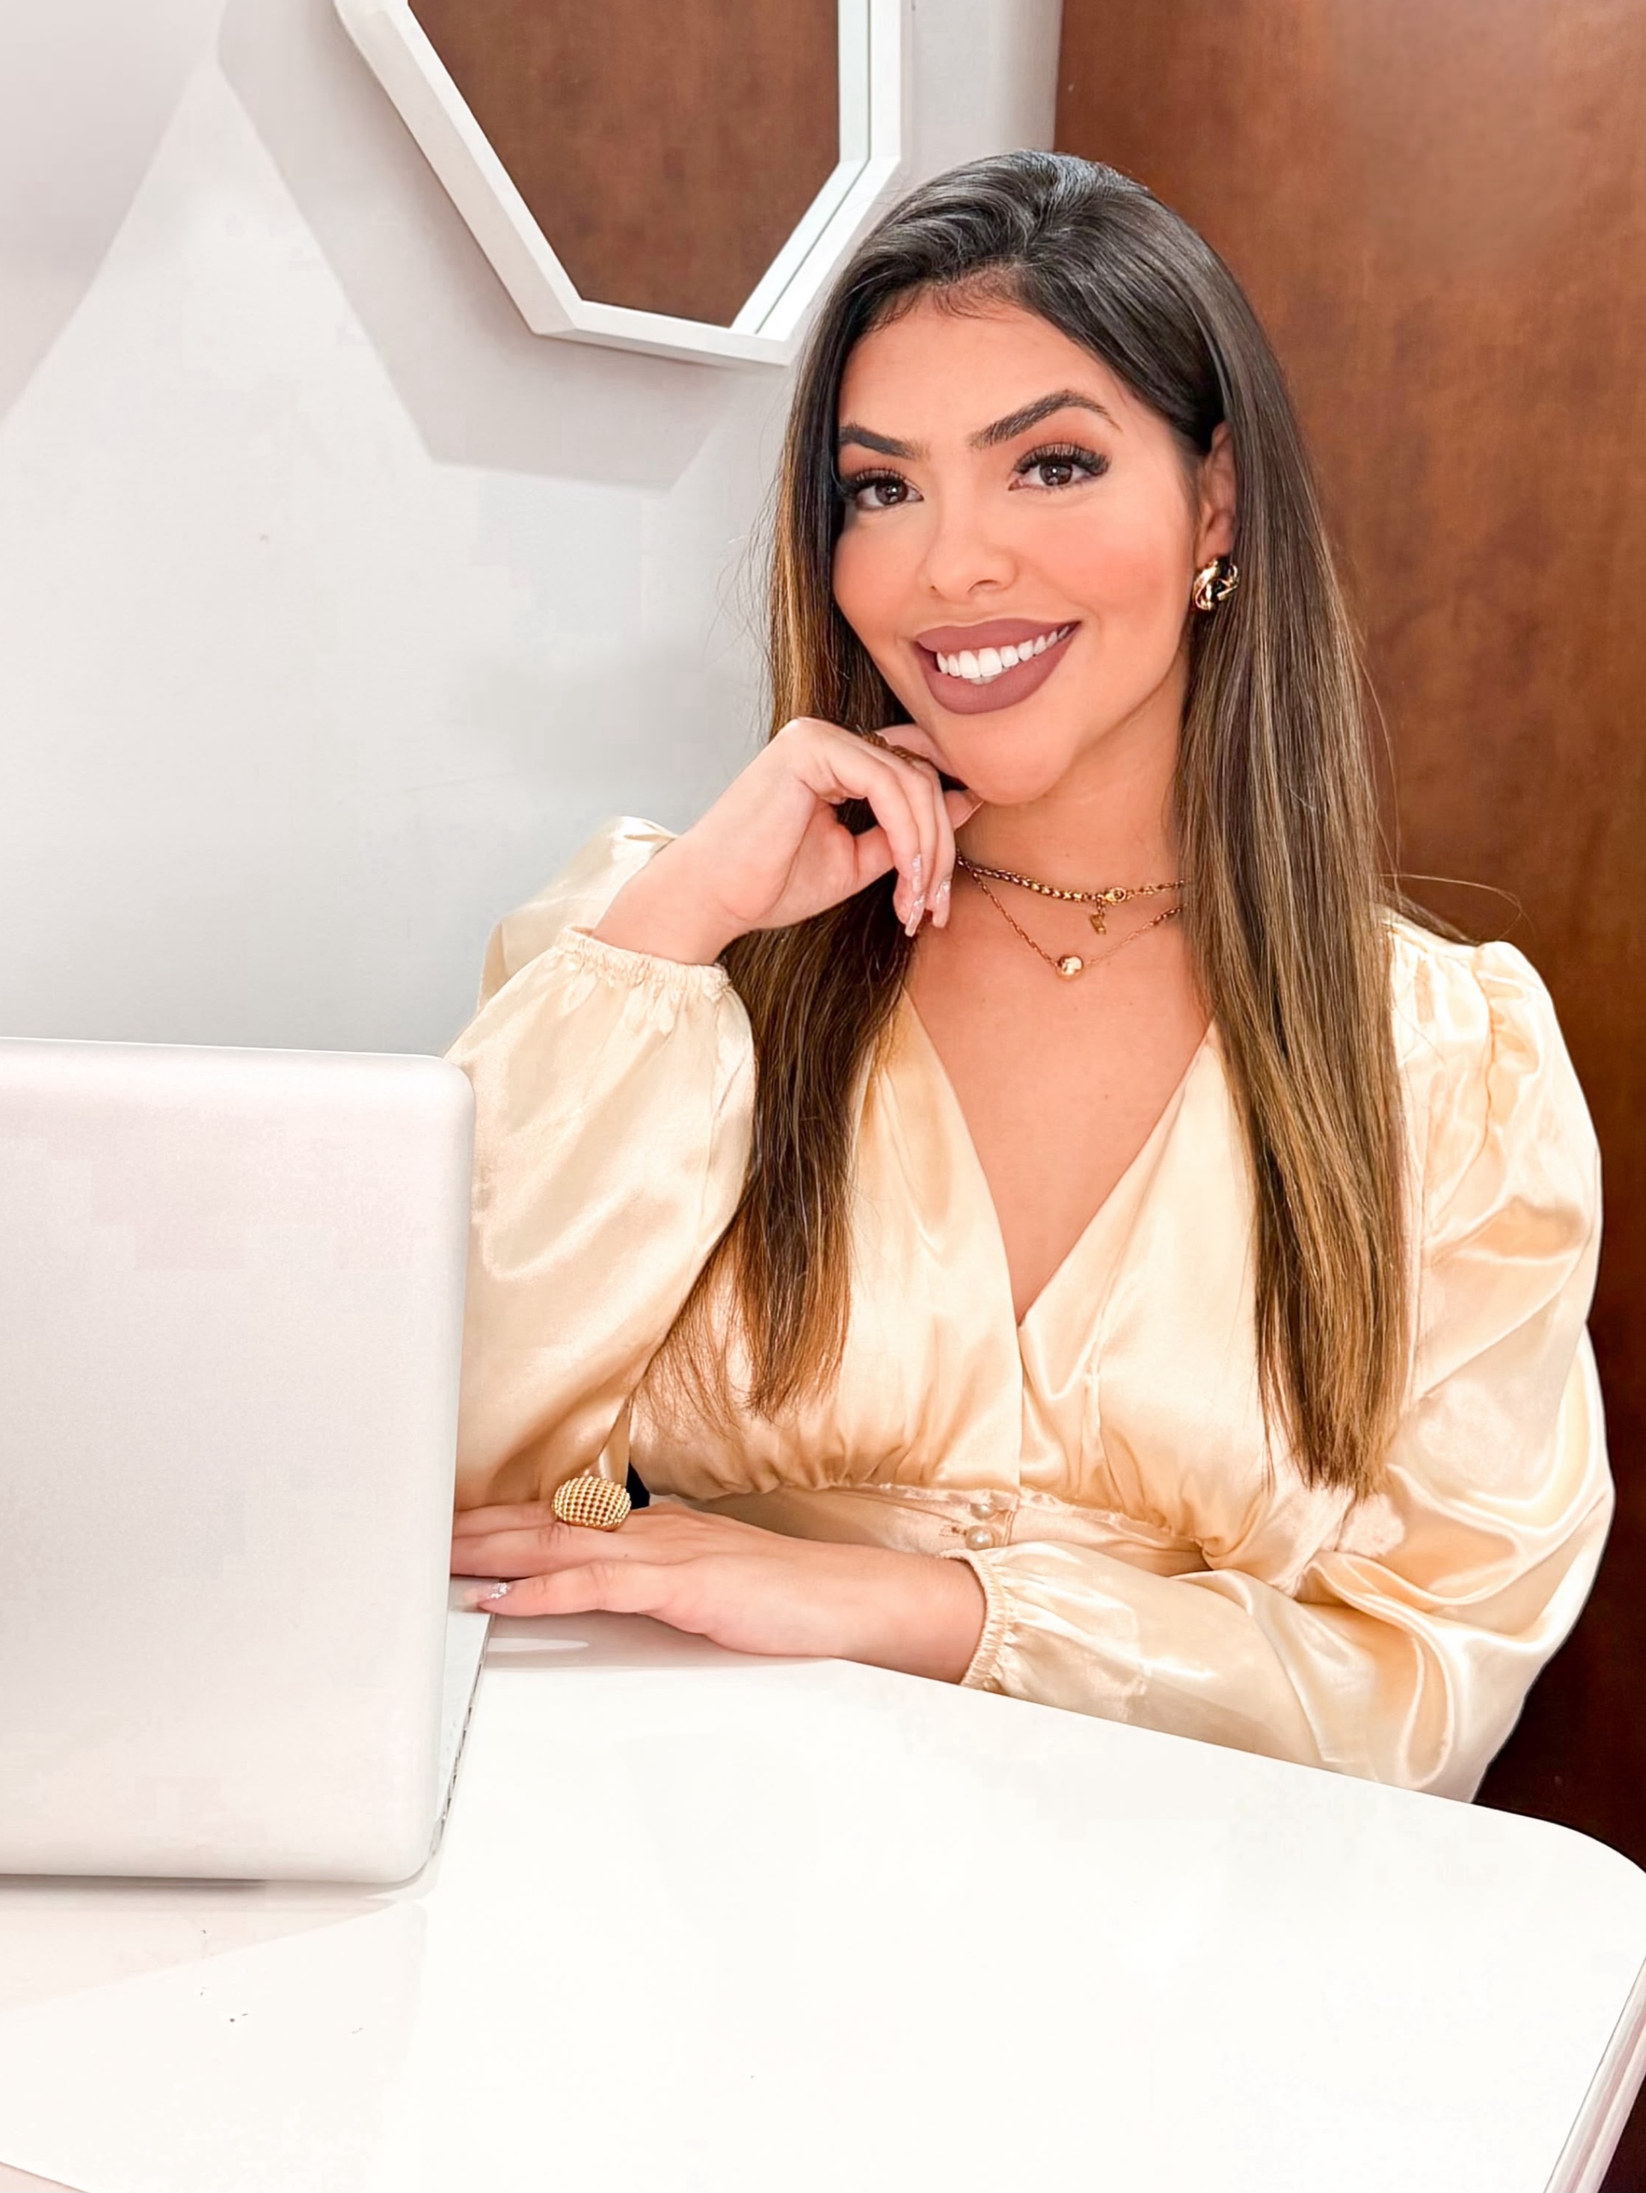
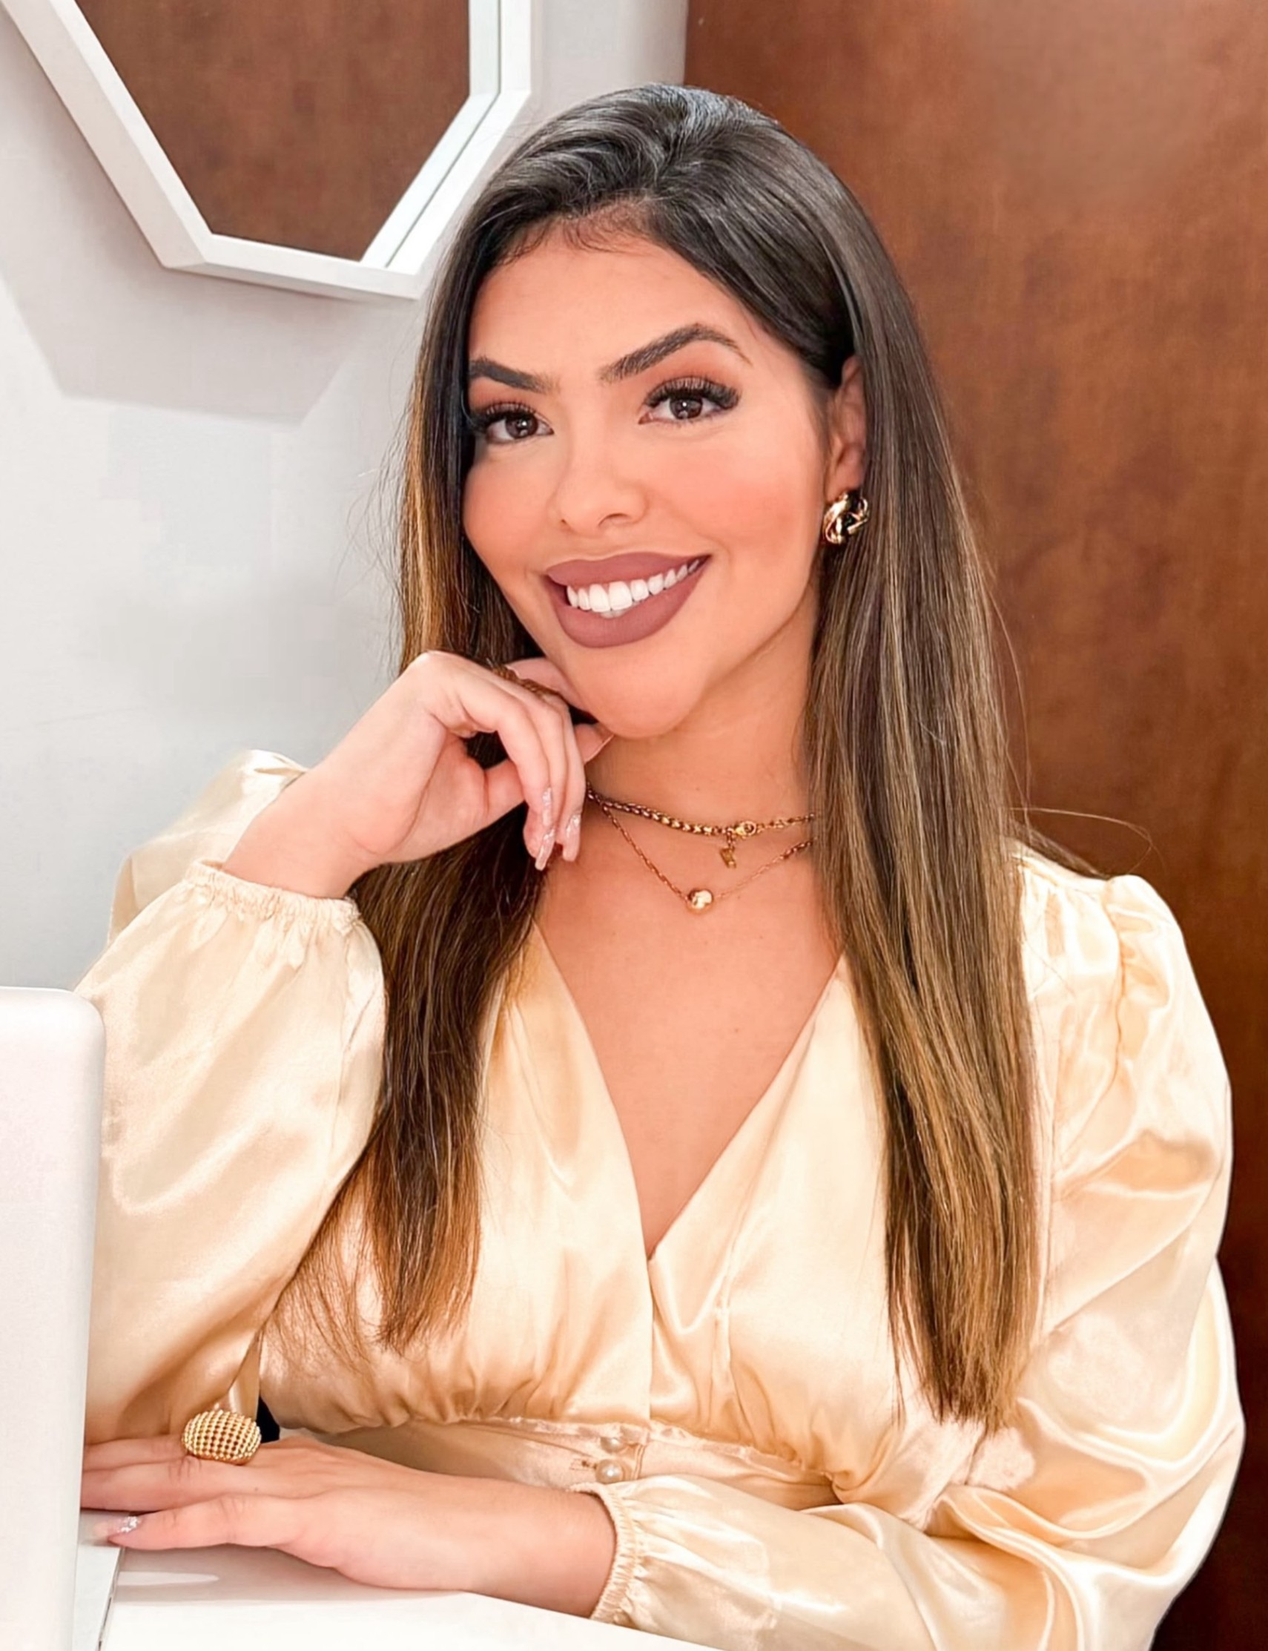
Ajustes finos no hero, secao Sobre e adiciona snippet de conversao do Google Ads
- Hero: troca "Talvez seja a hora" por "Autocuidado", remove lista de
  infos rapidas e reduz fonte/espacamento do texto de apoio no mobile,
  aproximando o CTA "Agende sua sessao"
- Sobre: assinatura (nome/CRP) movida no HTML para depois do texto e
  antes dos mini-blocos, valendo para desktop e mobile (remove hack de
  reordenacao via CSS order que so cobria o mobile)
- Adiciona snippet de evento de conversao do Google Ads (AW-11198622777)
  no <head> — ainda nao disparado em nenhum clique, depende do gtag.js
  ser carregado

diff --git a/index.html b/index.html
@@ -32,6 +32,23 @@
   })(window,document,'script','dataLayer','GTM-XXXXXXX'); /* TROCAR AQUI */</script>
   <!-- End Google Tag Manager -->
 
+  <!-- Event snippet for cliques no whatsapp conversion page
+  In your html page, add the snippet and call gtag_report_conversion when someone clicks on the chosen link or button. -->
+  <script>
+  function gtag_report_conversion(url) {
+    var callback = function () {
+      if (typeof(url) != 'undefined') {
+        window.location = url;
+      }
+    };
+    gtag('event', 'conversion', {
+        'send_to': 'AW-11198622777/kHmaCNTvxeAcELnY9dsp',
+        'event_callback': callback
+    });
+    return false;
+  }
+  </script>
+
   <meta charset="UTF-8">
   <meta name="viewport" content="width=device-width, initial-scale=1.0">
 
@@ -310,7 +327,7 @@
     <section class="identificacao section" id="identificacao">
       <div class="container">
         <div class="identificacao__cabecalho reveal">
-          <span class="olho">Talvez seja a hora</span>
+          <span class="olho">Autocuidado</span>
           <h2 class="titulo-secao">Talvez a terapia <em class="destaque">faça sentido</em> para você se…</h2>
         </div>
 
@@ -559,6 +576,9 @@
           <p>Atuo por meio da Terapia Cognitivo-Comportamental (TCC) e possuo especialização em Neuropsicologia, buscando oferecer um atendimento ético, acolhedor e fundamentado cientificamente.</p>
           <p>Acredito que a terapia é um espaço onde cada pessoa pode compreender melhor sua história, seus sentimentos e construir mudanças que façam sentido para a sua realidade.</p>
 
+          <p class="sobre__assinatura">Yasmim dos Santos Pinho</p>
+          <p class="sobre__assinatura-crp">CRP 06/162942</p>
+
           <div class="sobre__mini-blocos">
             <div class="sobre__mini-bloco">
               <span class="sobre__numero">+6 anos</span>
@@ -573,9 +593,6 @@
               <span class="sobre__legenda">especialização</span>
             </div>
           </div>
-
-          <p class="sobre__assinatura">Yasmim dos Santos Pinho</p>
-          <p class="sobre__assinatura-crp">CRP 06/162942</p>
         </div>
       </div>
     </section>

diff --git a/css/style.css b/css/style.css
@@ -830,6 +830,11 @@ img.imagem-indisponivel ~ .placeholder-imagem {
     display: none;
   }
 
+  .hero__apoio {
+    font-size: 0.875rem; /* 14px no mobile — 15px continua no desktop */
+    margin-bottom: var(--esp-16);
+  }
+
   .hero__imagem {
     /* ~10% menor que os 320px anteriores */
     max-width: 288px;
@@ -850,11 +855,7 @@ img.imagem-indisponivel ~ .placeholder-imagem {
   }
 
   .hero__info-lista {
-    align-items: center;
-  }
-
-  .hero__info-lista li {
-    justify-content: center;
+    display: none;
   }
 
   /* Quebra em duas linhas só no mobile: "Yasmim dos Santos Pinho" e,
@@ -1259,40 +1260,12 @@ img.imagem-indisponivel ~ .placeholder-imagem {
 
 @media (max-width: 767px) {
   .sobre__texto {
-    display: flex;
-    flex-direction: column;
     text-align: center;
   }
 
   .sobre__texto > p {
     max-width: 34ch;
     margin-inline: auto;
-  }
-
-  /* Reordena só no mobile: nome/CRP passam a vir depois do texto e antes
-     da linha divisória (o border-top do .sobre__mini-blocos). No desktop
-     a ordem no HTML continua valendo (mini-blocos antes da assinatura). */
-  .sobre__texto > .olho {
-    order: 1;
-  }
-
-  .sobre__texto > .titulo-secao {
-    order: 2;
-  }
-
-  /* As 3 primeiras tags <p> do texto (os parágrafos de corpo) — não
-     inclui .sobre__assinatura/.sobre__assinatura-crp, que são as próximas */
-  .sobre__texto > p:nth-of-type(-n+3) {
-    order: 3;
-  }
-
-  .sobre__assinatura,
-  .sobre__assinatura-crp {
-    order: 4;
-  }
-
-  .sobre__mini-blocos {
-    order: 5;
   }
 }
 
